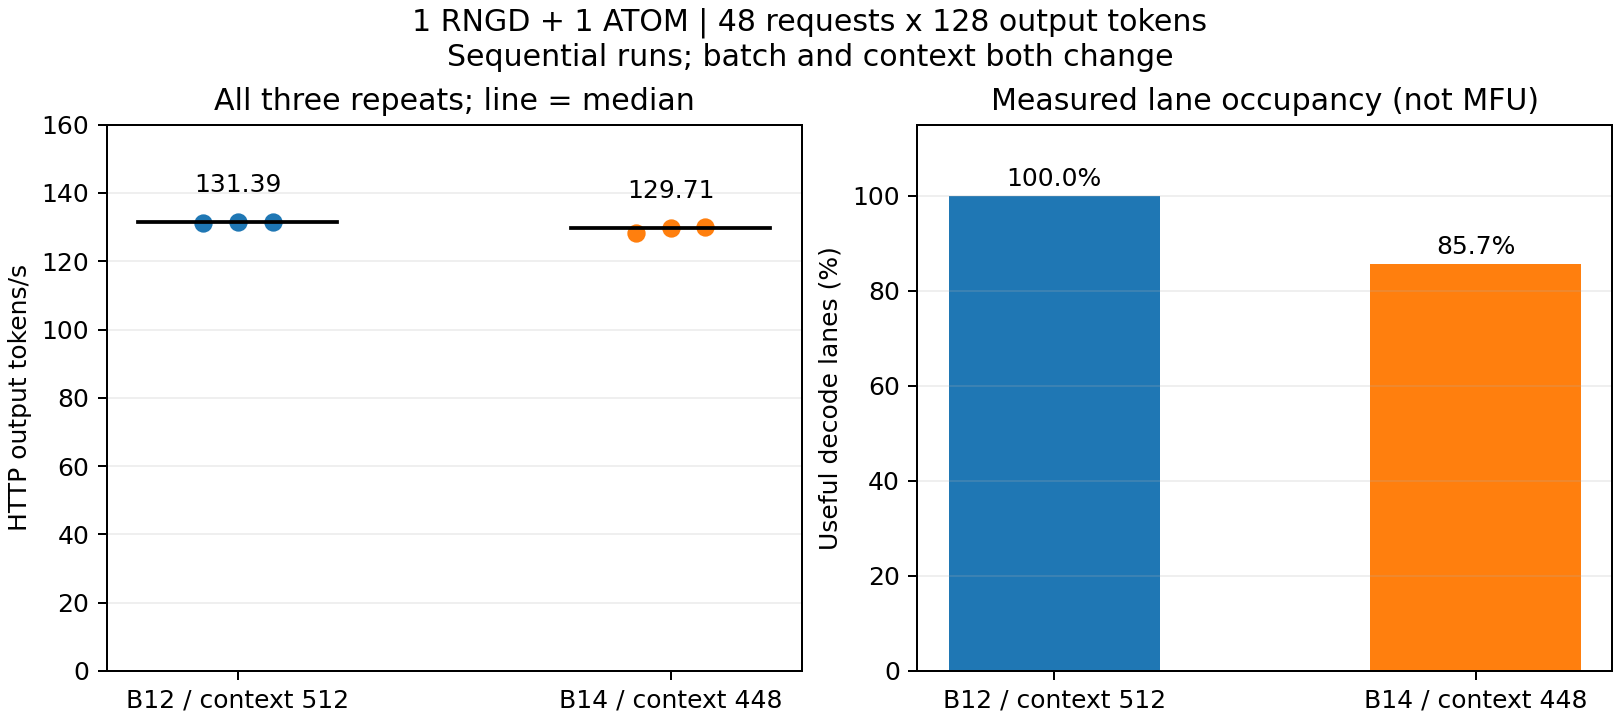
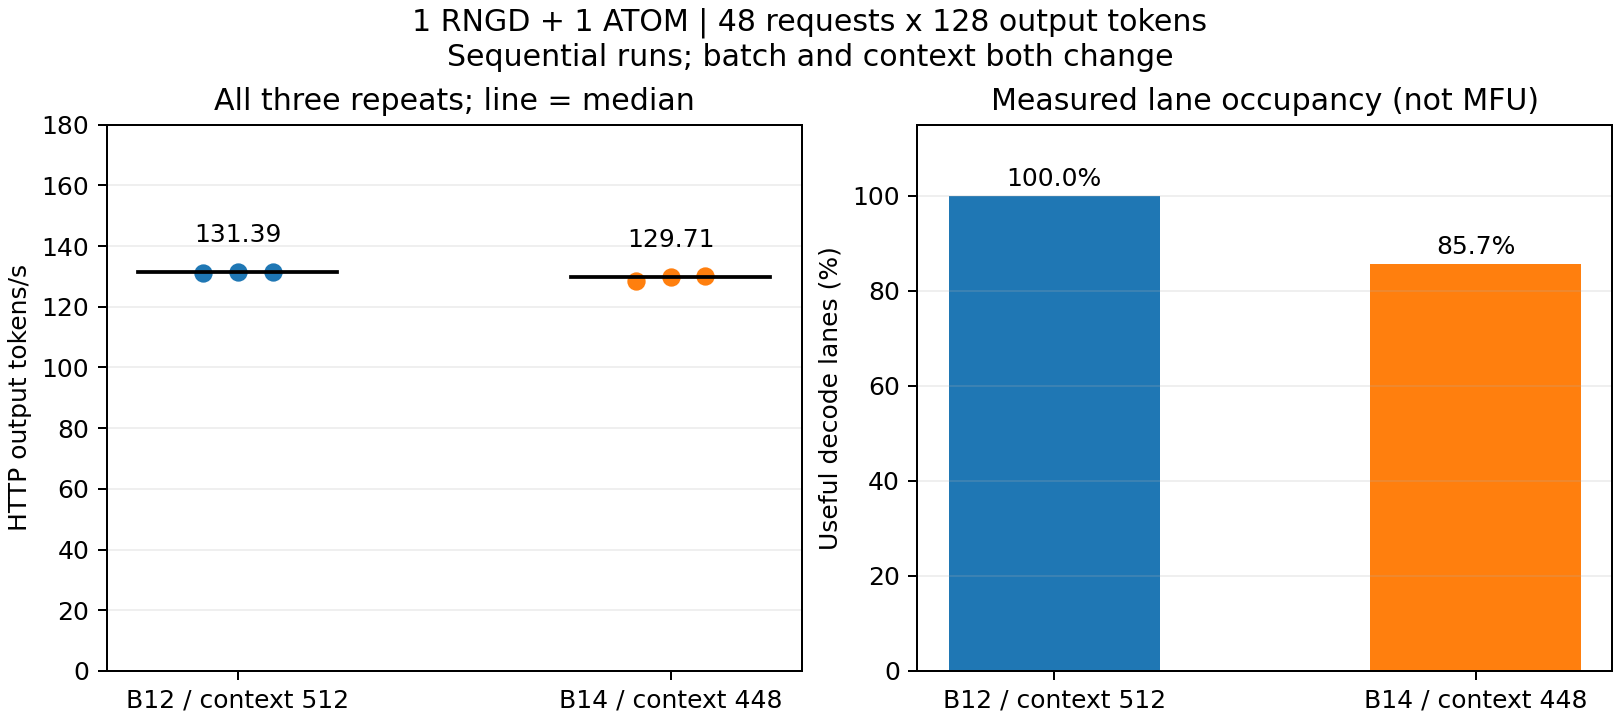
Validate B14 PD gain at equal saturated 84-request workload

diff --git a/examples/koni/plot_b14_comparison.py b/examples/koni/plot_b14_comparison.py
@@ -1,17 +1,17 @@
-"""Plot completed 48-request runs without mixing decode-only measurements."""
+"""Plot completed equal-request runs without mixing decode-only measurements."""
 import argparse,json,statistics
 from pathlib import Path
 import matplotlib
 matplotlib.use('Agg')
 import matplotlib.pyplot as plt
-ap=argparse.ArgumentParser();ap.add_argument('--baseline',type=Path,required=True);ap.add_argument('--candidate',type=Path,required=True);ap.add_argument('--output',type=Path,required=True);a=ap.parse_args()
+ap=argparse.ArgumentParser();ap.add_argument('--baseline',type=Path,required=True);ap.add_argument('--candidate',type=Path,required=True);ap.add_argument('--output',type=Path,required=True);ap.add_argument('--requests',type=int,choices=(48,84),default=48);a=ap.parse_args();n=a.requests
 series=[]
 for root in (a.baseline,a.candidate):
  cfg=json.loads((root/'config.json').read_text());audit=json.loads((root/'analysis.json').read_text());http=json.loads((root/'http-results.json').read_text())
  assert json.loads((root/'result.json').read_text())['passed'] and http['passed'] and audit['exact_logits'] and audit['ownership_violations']==0
  rows=[r for r in http['rows'] if r['scenario'].startswith('sealed-fixed128-r')]
- assert len(rows)==3 and all(len(r['requests'])==48 and all(q['output_tokens']==128 for q in r['requests']) for r in rows)
- warm=[r for r in http['rows'] if r['scenario']=='warm'];assert len(warm)==1 and len(warm[0]['requests'])==48 and all(q['output_tokens']==128 for q in warm[0]['requests'])
+ assert len(rows)==3 and all(len(r['requests'])==n and all(q['output_tokens']==128 for q in r['requests']) for r in rows)
+ warm=[r for r in http['rows'] if r['scenario']=='warm'];assert len(warm)==1 and len(warm[0]['requests'])==n and all(q['output_tokens']==128 for q in warm[0]['requests'])
  series.append((cfg,audit,[r['tokens_per_second'] for r in rows]))
 for key in ('model','workload','atom_devices','rngd_device_path','lookahead','batch_wait_ms'):
  assert series[0][0].get(key)==series[1][0].get(key),key
@@ -23,7 +23,7 @@ for i,(cfg,audit,vals) in enumerate(series):
  med=statistics.median(vals);ax[0].plot([i-.23,i+.23],[med,med],color='black');ax[0].annotate(f'{med:.2f}',(i,med),xytext=(0,12),textcoords='offset points',ha='center')
  lane=100*audit['cases']['fixed128']['sealed']['useful_lane_fraction'];ax[1].bar(i,lane,width=.5);ax[1].text(i,lane+2,f'{lane:.1f}%',ha='center')
 for axis in ax:axis.set_xticks(range(2),labels);axis.grid(axis='y',alpha=.2)
-ax[0].set_ylabel('HTTP output tokens/s');ax[0].set_ylim(0,160);ax[0].set_title('All three repeats; line = median')
+ax[0].set_ylabel('HTTP output tokens/s');ax[0].set_ylim(0,180);ax[0].set_title('All three repeats; line = median')
 ax[1].set_ylabel('Useful decode lanes (%)');ax[1].set_ylim(0,115);ax[1].set_title('Measured lane occupancy (not MFU)')
-fig.suptitle('1 RNGD + 1 ATOM | 48 requests x 128 output tokens\nSequential runs; batch and context both change')
+fig.suptitle(f'1 RNGD + 1 ATOM | {n} requests x 128 output tokens\nSequential runs; batch and context both change')
 a.output.parent.mkdir(parents=True,exist_ok=True);fig.savefig(a.output,dpi=180)

diff --git a/examples/koni/compare_batch_width.py b/examples/koni/compare_batch_width.py
@@ -11,7 +11,7 @@ for directory in (a.baseline,a.candidate):
  terminal=json.loads((directory/'result.json').read_text())
  assert http['passed'] and terminal['passed'] and audit['exact_logits'] and audit['ownership_violations']==0
  runs.append((cfg,http,audit))
-for key in ('model','tables','workload','atom_devices','rngd_device_path','rngd_logical_index','lookahead','collection_ms','batch_wait_ms'):
+for key in ('model','tables','workload','atom_devices','rngd_device_path','rngd_logical_index','lookahead','collection_ms','batch_wait_ms','queue_capacity'):
  assert runs[0][0].get(key)==runs[1][0].get(key),f'confounded configuration: {key}'
 warm_outputs=[]
 for cfg,http,audit in runs:

diff --git a/docs/B14_CONTEXT448_KO.md b/docs/B14_CONTEXT448_KO.md
@@ -1,6 +1,6 @@
 # B14/context448: 메모리 제한 안에서 배치 확대
 
-KONI 8B의 1 RNGD prefill + 1 ATOM decode 경로에서 B12보다 큰 배치를 실행하기 위한 실험이다. 기본 context512 경로는 유지한다. B14/context448은 명시적으로 선택하는 실험 설정이며 48요청의 전체 PD 검증은 완료했고, 84요청 비교는 진행 중이다.
+KONI 8B의 1 RNGD prefill + 1 ATOM decode 경로에서 B12보다 큰 배치를 실행하기 위한 실험이다. 기본 context512 경로는 유지한다. B14/context448은 명시적으로 선택하는 실험 설정이며 48요청의 전체 PD 검증은 완료했고, 84요청 비교도 완료했다.
 
 ## 메모리에서 확인한 사실
 
@@ -38,3 +38,18 @@ MFU, 연속 전력, client token-interval p99, 단독 NPU 대비 이득은 이 d
 ![48요청 처리량과 실제 lane 점유](b12-b14-48requests.png)
 
 그림의 B12는 가장 가까운 완료 full 실행(proj-abba-4-full)의3회 중앙131.390을 사용했다. 앞서 보고한131.730은 두 full 프로세스의 중앙값 요약이므로 집계 범위가 다르다. B14는 pd-b14-s448-r1의3회다. 원본별 전 반복을 표시했고 최대값을 선택하지 않았다.
+
+## 84요청 최종 비교
+
+| 구성 | 3회 tok/s | 중앙값 | 실제 lane 점유 |
+|---|---|---:|---:|
+| B12/context512/full |135.313 / 133.469 / 133.715|133.715|100%|
+| B14/context448/full |151.528 / 151.235 / 151.744|151.528|100%|
+
+동일84요청×출력128, 워밍업도84×128, queue96에서 B14가13.32% 높았다. 각368요청, 합계736요청 전체 same-artifact host/P2P logits exact, 소유권 위반0, 모든DMA완료, 양서버/worker 정상종료. 각구성1프로세스·3반복의 순차실행으로 통계적 유의성이나 일반 부하 우위를 주장하지 않는다.
+
+48요청에서는 B14의 이득이 없었다는 결과도 유지한다. 다음 최적화 기준으로 B14는 context448 안의 충분한 긴출력 부하에 명시적으로 사용하고, 일반 기본값은 변경하지 않는다. 실행순서 교차 재현 및 혼합길이·실제도착률·전력·SLO 검증이 남아 있다.
+
+![84요청 처리량과 슬롯 점유](b12-b14-84requests.png)
+
+[기계 판독 비교](b12-b14-saturation84.json). 원본 results/pd-b12-sat84-r1 및 results/pd-b14-sat84-r1.
